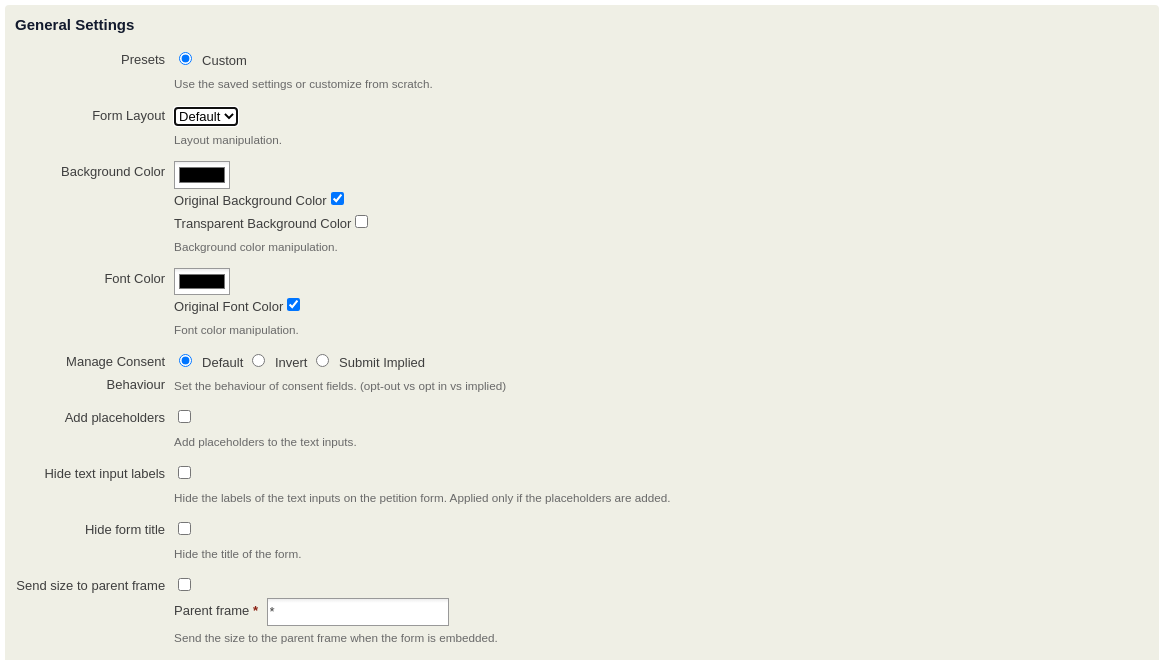
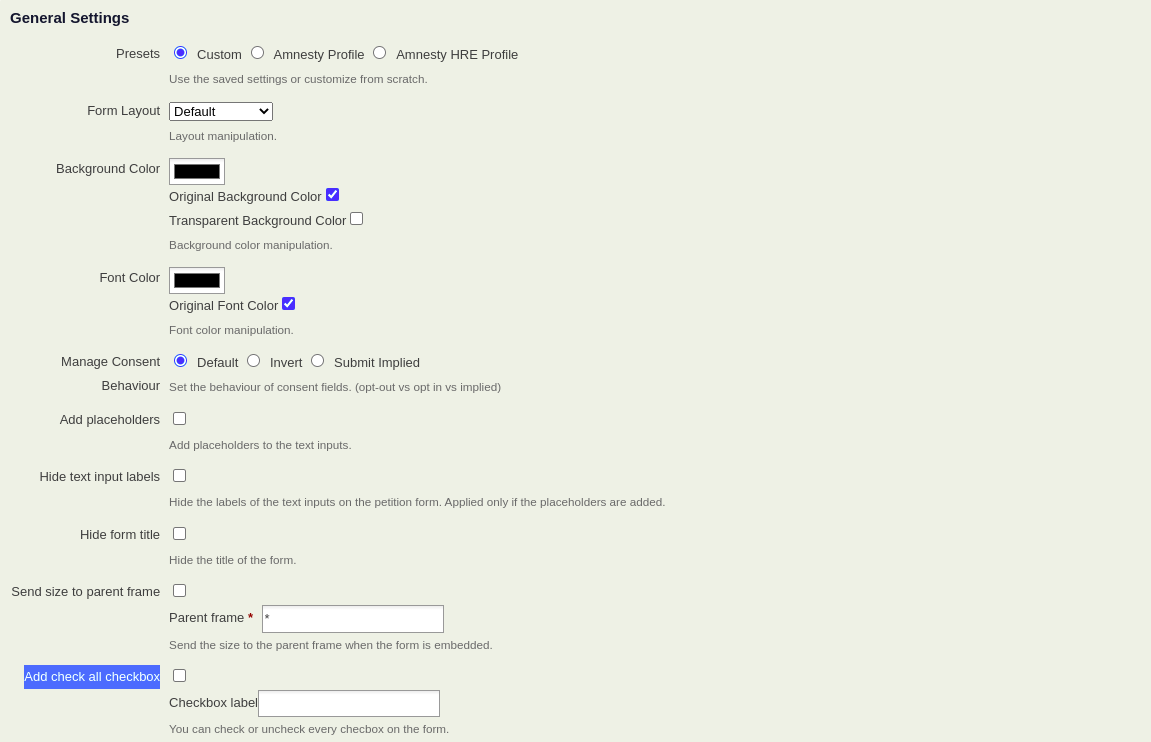
Update the documentation

Changed region(s): [[0.0, 0.0, 1.0, 1.0]]

diff --git a/README.md b/README.md
@@ -2,7 +2,7 @@
 
 This extension provides an administration interface and functionality to overwrite the layout and the basic styles of the public profile forms, the petition forms, the event forms and the pages that are connected to the forms. The forms could be used as embedded forms on third party pages. The default form layout might be different from the third party site. This extension modifies the html of the forms and adds further css files to be loaded. This tool provides an option for adding formatted and longer default value to a textarea input if it is attached to an activity profile. It could be used as default value for an email like petition message. Possible to use preset configurations and use them on the forms. The translation for hungarian language is included.
 
-When the forms are used in iframe, the parent window might need some information from the embedded site. For example the height of the content is necessary for some cases, when the size of the iframe container is managed with javascript. A javascript application has been developed for providing a message sender functionality. This application checks that the content is loaded in iframe or not. If it is loaded in iframe, then on the onload event and on resize events it send a message directly to the parent window. This message contains a type key with the `resize` value (client request), and a height key that stores the current height value of the embedded window. For the communication it uses the window.postMessage method. As this communication does not contain sensitive information, the target origin is set as `*`. When we have to send sensitive data to the parent, we have to set it to be able to reduce the probability of sending data to unknown third parties.
+When the forms are used in iframe, the parent window might need some information from the embedded site. For example the height of the content is necessary for some cases, when the size of the iframe container is managed with javascript. A javascript application has been developed for providing a message sender functionality. This application checks that the content is loaded in iframe or not. If it is loaded in iframe, then on the onload event and on resize events will send a message directly to the parent window. This message contains a type key with the `resize` value (client request), and a height key that stores the current height value of the embedded window. For the communication it uses the window.postMessage method. As this communication does not contain sensitive information, the target origin is set as `*`. When we have to send sensitive data to the parent, we have to set it to be able to reduce the probability of sending data to unknown third parties.
 
 The extension is licensed under [AGPL-3.0](LICENSE.txt).
 
@@ -78,6 +78,8 @@ The form customization is based on additional settings that could be reached fro
 - Hide form title - If this flag is set, the titles will be hidden on the forms and pages.
 - Send size to the parent window - When the form is embedded, with this option the size of the form will be sent with javascript method to the parent window.
 - Send size to this parent window - When the form is embedded, with this option the size of the form will be sent with javascript method to this parent window. (default: `*`)
+- Add check all checkbox - When this feature is set, an additional checkbox will be added to the form right before the first checkbox. When it is checked or unchecked, every other checkbox will be set to the same state as this checkbox.
+- Check all checkbox label - The visible label of this checkbox.
 
 **General Settings**
 ![general settings](./assets/docs/admin-general-settings.png)
